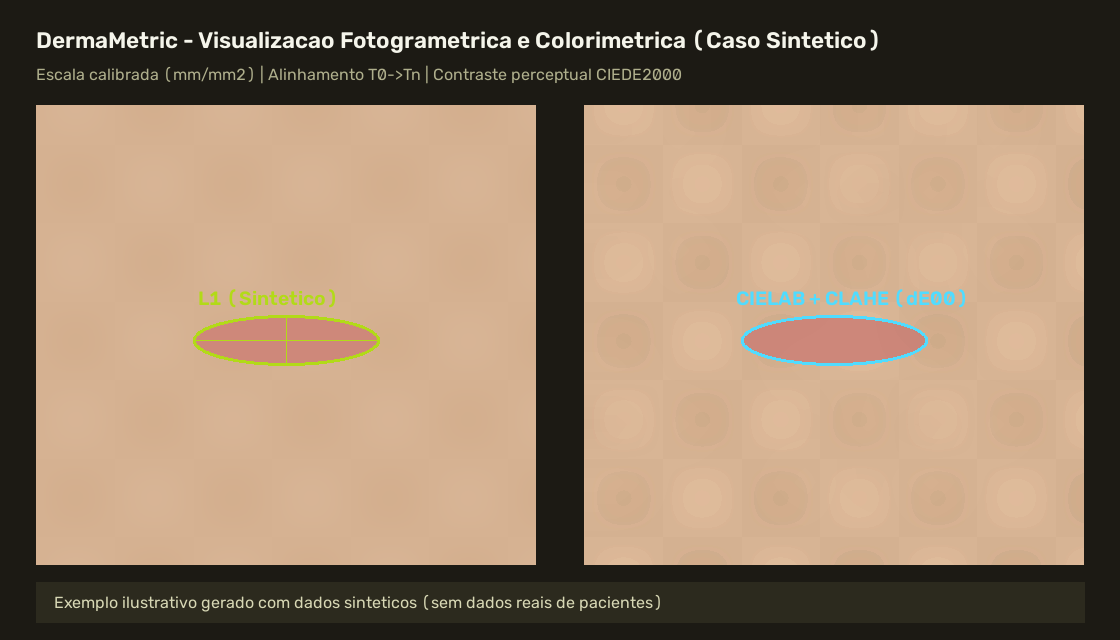
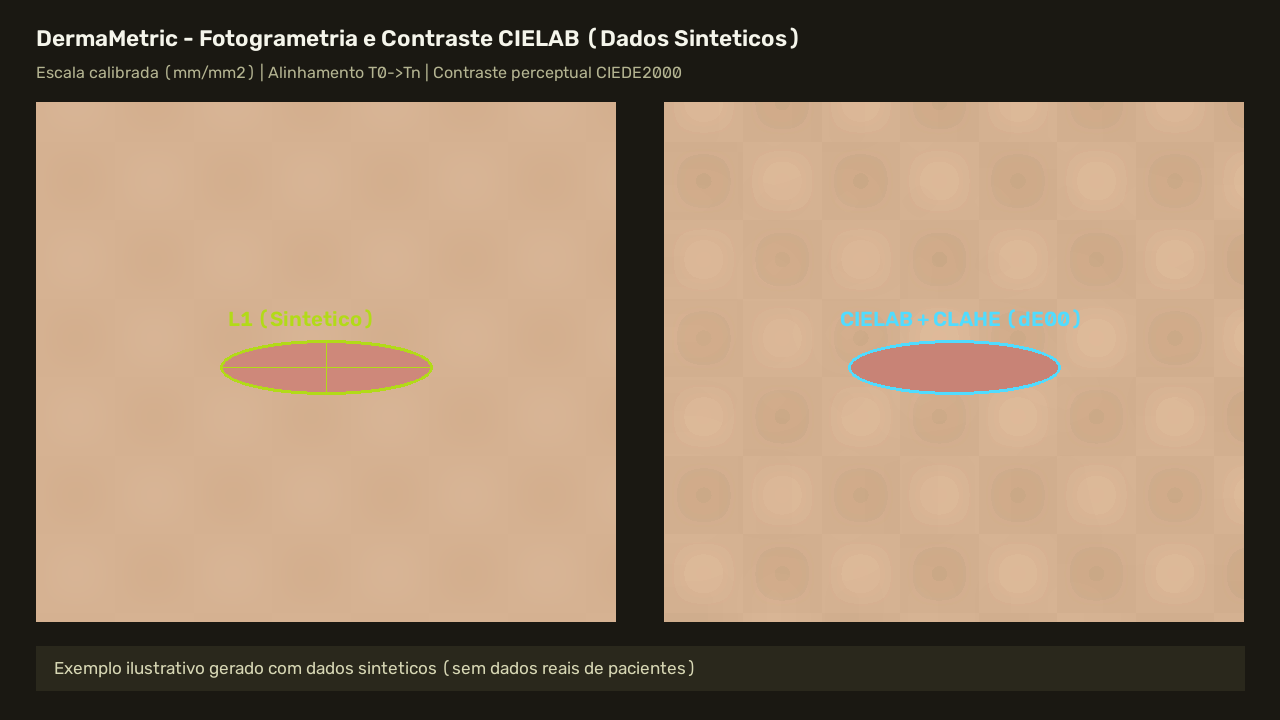
docs(readme): improve screenshot proportions and layout

diff --git a/README.md b/README.md
@@ -18,10 +18,17 @@ Funciona como **aplicativo desktop nativo de duplo clique** no Windows e no Linu
 
 ## Demonstração Visual (Dados Sintéticos)
 
-| Estação Clínica e Prontuários | Fotogrametria e Contraste CIELAB | Laudo Clínico em PDF |
-| :---: | :---: | :---: |
-| <img src="docs/screenshots/01-estacao-clinica.png" alt="Estação Clínica DermaMetric" width="280" /> | <img src="docs/screenshots/02-analise-morfometrica.png" alt="Análise Morfométrica e Colorimétrica Sintética" width="280" /> | <img src="docs/screenshots/03-laudo-clinico-pdf.png" alt="Laudo Clínico em PDF" width="280" /> |
-| *Interface local sem dependência de nuvem* | *Visualização ilustrativa com dados sintéticos* | *Relatório estruturado para impressão/arquivo* |
+- **Estação Clínica e Prontuários** *(interface local sem dependência de nuvem)*:
+
+  <img src="docs/screenshots/01-estacao-clinica.png" alt="Estação Clínica DermaMetric" width="820" />
+
+- **Fotogrametria e Contraste CIELAB** *(visualização ilustrativa gerada com dados sintéticos)*:
+
+  <img src="docs/screenshots/02-analise-morfometrica.png" alt="Análise Morfométrica e Colorimétrica Sintética" width="820" />
+
+- **Laudo Clínico em PDF** *(relatório estruturado para impressão ou arquivo)*:
+
+  <img src="docs/screenshots/03-laudo-clinico-pdf.png" alt="Laudo Clínico em PDF" width="820" />
 
 ---
 
